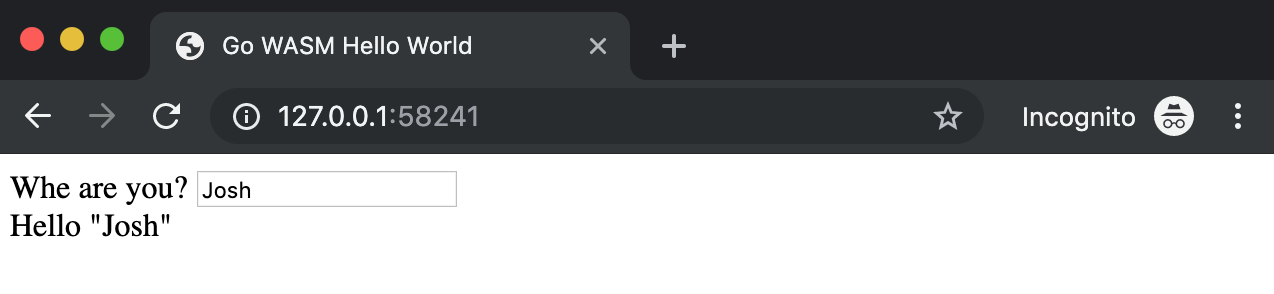
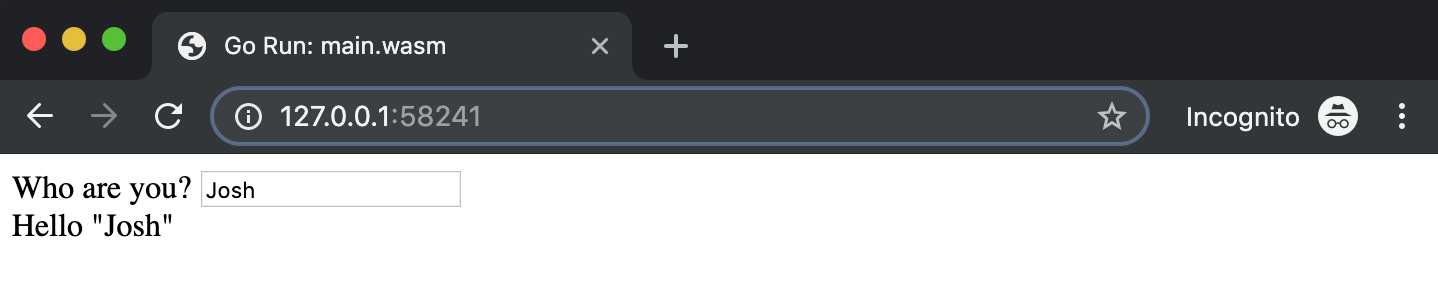
Fix hello demo typo

diff --git a/hello/index.html b/hello/index.html
@@ -5,7 +5,7 @@
 <body>
 
 	<div>
-		<label for="who">Whe are you?</label>
+		<label for="who">Who are you?</label>
 		<input id="who" type="text" size="20">
 	</div>
 

diff --git a/README.md b/README.md
@@ -12,7 +12,7 @@
 <body>
 
 	<div>
-		<label for="who">Whe are you?</label>
+		<label for="who">Who are you?</label>
 		<input id="who" type="text" size="20">
 	</div>
 
